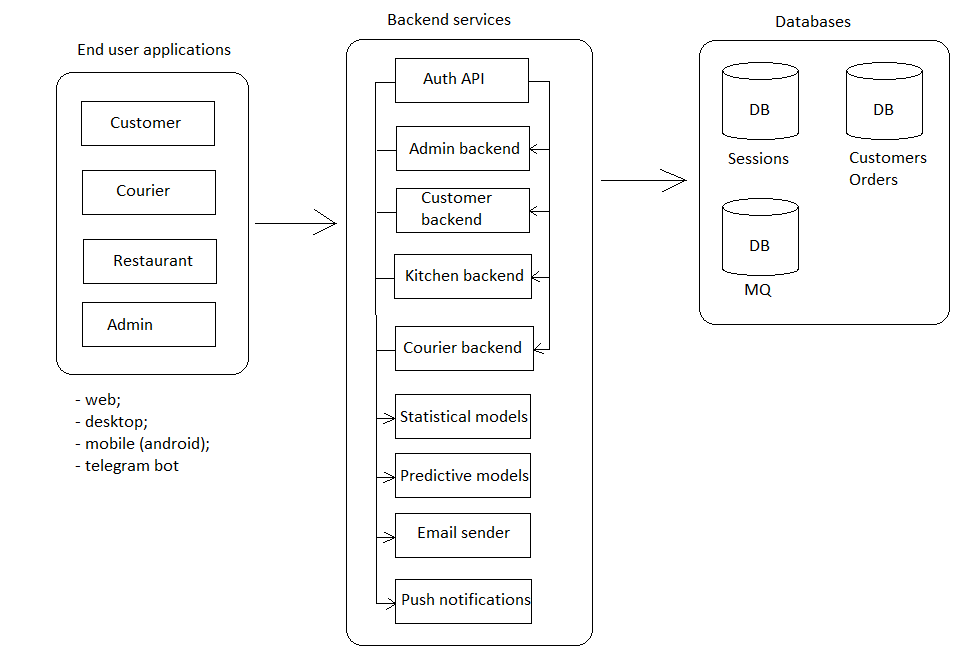
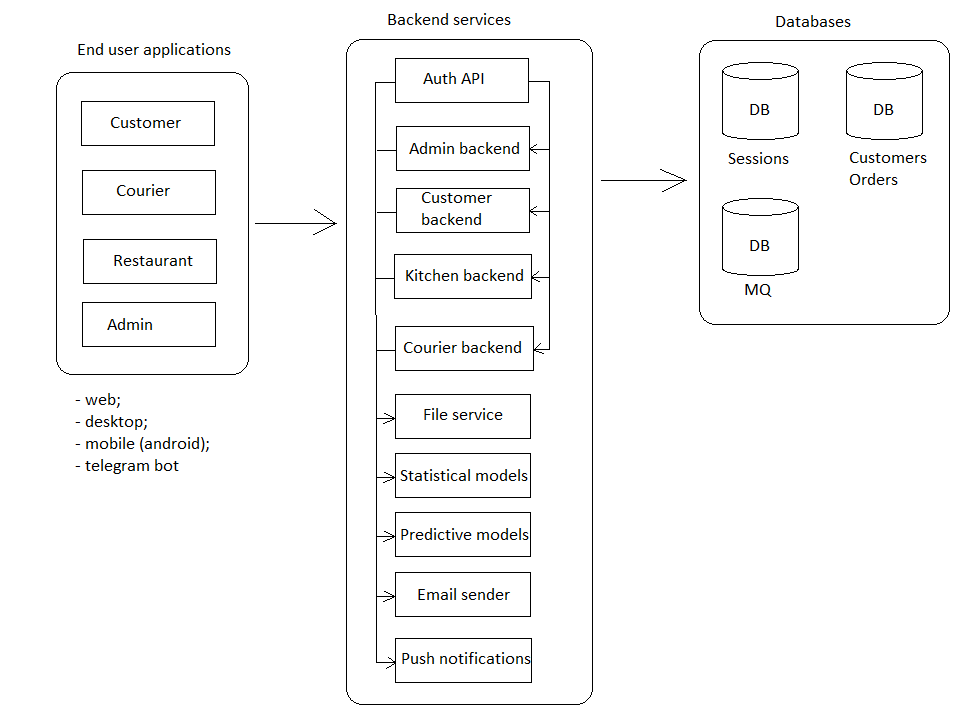
added docs

diff --git a/README.ru.md b/README.ru.md
@@ -5,21 +5,21 @@
 Сервис доставки еды
 
 Описание системы: 
-- Сервис доставки еды 
-- Виды клиентских приложений по типу конечного пользователя: клиентское, ресторан, курьер, админ
+- Высоконагруженная система: каждый элемент системы должен быть способен выдержать нагрузку до 5 тыс. запросов в секунду на запись и чтение
+- Виды клиентских приложений по типу конечного пользователя: для потребителей, ресторан, курьер, админ
 - Виды клиентских приложений по типу развертывания: вэб, десктоп, мобильное (Android), бот в телеграм 
-- Бэкенд сервисы: authentication API, customer, kitchen, courier, email sender, push notifications 
+- Бэкенд сервисы: [authentication API](docs/authapi.ru.md), [customer backend](docs/customerbackend.ru.md), kitchen backend, courier backend, file service, statistical model, predictive model, email sender, push notifications 
 - Внешние сервисы: Firebase, email delivery service, payment gateway 
-- Высоконагруженная система: каждый элемент системы должен быть способен выдержать нагрузку до 5 тыс. запросов в секунду на запись и чтение 
 - Виды оплаты: наличная при получении, через валидатор при получении, через приложение банка по QR-коду, в приложении с помощью CVC
 - Загрузка файлов на сервер (изображения, видео, Word, Excel, PDF, XML, JSON)
 - Загрузка файлов с сервера (изображения, Word, Excel, PDF, XML, JSON)
 - Формирование QR-кода для оплаты
+- Отправка уведомлений об акциях на почту и/или на телеграм
 - Отображение информации по заказам в виде списков: список всех заказов, информация по конкретному заказу (фактическое время оформления, готовки и доставки; ориентировочное время готовки и доставки, общая сумма заказа, стоимость позиций заказа, место доставки; статус)
 - Статистика по многим заказам в виде дашбордов (по времени: день, неделя, месяц, год, всё время; по типу графиков: Line chart, Bar chart, Histogram, Scatter plot и т.д.; метрики: общая сумма заказа, стоимость позиции, количество заказов, количество позиций, время оформления заказов, место доставки)
 - Метрики для внутреннего пользования: фактическое время оформления заказов, готовки и доставки; общая сумма заказа, стоимость позиций заказа, количество заказов, количество позиций, время оформления заказов, место доставки, место регистрации пользователя 
 - Предиктивные модели по всем метрикам: для группы пользователей (фильтр: город, страна, возраст, пол, совпадения в ФИО пользователей, место доставки, место регистрации; отображение: список пользователей, краткая информация о пользователе)
-- Отслеживание местоположения курьера 
+- Отслеживание местоположения курьера
 
 Технические требования к системе: 
 - Распределенная система храненения записей в БД: сделать анализ по БД, которая оптимальна для записи и для чтения 
@@ -29,5 +29,7 @@
 - Использование gRPC, RabbitMQ, ElasticSearch, WebAPI и worker
 - У RabbitMQ может быть несколько "подписчиков"
 - Асинхронность и параллельность (например, при формировании изображений)
+
+Общая модель системы: 
 
 ![system_overall](docs/img/system_overall.png)

diff --git a/docs/customerbackend.ru.md b/docs/customerbackend.ru.md
@@ -1,0 +1,27 @@
+# customer backend 
+
+Доступно на других языках: [English/Английский](customerbackend.md), [Russian/Русский](customerbackend.ru.md). 
+
+Бэкенд сервис приложения для потребителей 
+
+Общая модель системы: 
+
+![system_overall](img/system_overall.png)
+
+Описание приложения для потребителей: 
+- Часть высоконагруженной системы: каждый элемент системы должен быть способен выдержать нагрузку до 5 тыс. запросов в секунду на запись и чтение
+- Интегрируется напрямую с [authentication API](authapi.ru.md), [customer backend](customerbackend.ru.md), file service, statistical model, predictive model, email sender, push notifications
+- Виды оплаты: наличная при получении, через валидатор при получении, через приложение банка по QR-коду, в приложении с помощью CVC
+- Загрузка файлов на сервер (изображения, видео, Word, Excel, PDF, XML, JSON)
+- Загрузка файлов с сервера (изображения, Word, Excel, PDF, XML, JSON)
+- Формирование QR-кода для оплаты
+- Отправка уведомлений об акциях на почту и/или на телеграм
+- Отображение информации по заказам в виде списков: список всех заказов, информация по конкретному заказу (фактическое время оформления, готовки и доставки; ориентировочное время готовки и доставки, общая сумма заказа, стоимость позиций заказа, место доставки; статус)
+- Статистика по многим заказам в виде дашбордов (по времени: день, неделя, месяц, год, всё время; по типу графиков: Line chart, Bar chart, Histogram, Scatter plot и т.д.; метрики: общая сумма заказа, стоимость позиции, количество заказов, количество позиций, время оформления заказов, место доставки)
+- Использование предиктивных моделей по метрикам: ориентировочное время готовки и доставки
+- Отслеживание местоположения курьера на карте
+
+Описание бэкенда приложения для потребителей: 
+- Виды оплаты: наличная при получении, через валидатор при получении, через приложение банка по QR-коду, в приложении с помощью CVC
+- Проверяет сессионный токен, полученный после вызова [authentication API](authapi.ru.md)
+- Выгрузка информации по заказам в виде списков: список всех заказов, информация по конкретному заказу (фактическое время оформления, готовки и доставки; ориентировочное время готовки и доставки, общая сумма заказа, стоимость позиций заказа, место доставки; статус)

diff --git a/docs/authapi.ru.md b/docs/authapi.ru.md
@@ -1,0 +1,14 @@
+# authapi
+
+Доступно на других языках: [English/Английский](authapi.md), [Russian/Русский](authapi.ru.md). 
+
+API для аутентификации 
+
+Общая модель системы: 
+
+![system_overall](img/system_overall.png)
+
+Описание API для аутентификации: 
+- Часть высоконагруженной системы: каждый элемент системы должен быть способен выдержать нагрузку до 5 тыс. запросов в секунду на запись и чтение
+- Без использования данного модуля невозможно произвести вызов ни одного бэкенд сервиса (однако он напрямую не взаимодействует ни с одним из них)
+- Записывает сессионные токены в БД, а также возвращает сессионные токены в качестве ответа на сетевой запрос клиентского приложения

diff --git a/docs/fileservice.ru.md b/docs/fileservice.ru.md
@@ -1,0 +1,14 @@
+# fileservice
+
+Доступно на других языках: [English/Английский](fileservice.md), [Russian/Русский](fileservice.ru.md). 
+
+Сервис для работы с файлами и генерации их 
+
+Общая модель системы: 
+
+![system_overall](img/system_overall.png)
+
+Описание сервиса: 
+- Загрузка файлов на сервер (изображения, видео, Word, Excel, PDF, XML, JSON)
+- Загрузка файлов с сервера (изображения, Word, Excel, PDF, XML, JSON)
+- Формирование QR-кода для оплаты

diff --git a/docs/emailsender.ru.md b/docs/emailsender.ru.md
@@ -1,0 +1,12 @@
+# email sender
+
+Доступно на других языках: [English/Английский](emailsender.md), [Russian/Русский](emailsender.ru.md). 
+
+Отправка email сообщений 
+
+Общая модель системы: 
+
+![system_overall](img/system_overall.png)
+
+Описание сервиса для отправки email сообщений:
+- Отправка уведомлений об акциях на почту и/или на телеграм

diff --git a/docs/pushnotifications.ru.md b/docs/pushnotifications.ru.md
@@ -1,0 +1,9 @@
+# push notifications
+
+Доступно на других языках: [English/Английский](pushnotifications.md), [Russian/Русский](pushnotifications.ru.md). 
+
+Пуш уведмоления 
+
+Общая модель системы: 
+
+![system_overall](img/system_overall.png)

diff --git a/docs/customerbackend.md b/docs/customerbackend.md
@@ -1,0 +1,9 @@
+# customer backend 
+
+Read this in other languages: [English](customerbackend.md), [Russian/Русский](customerbackend.ru.md). 
+
+Backend of the customer application 
+
+Overall description of the system: 
+
+![system_overall](img/system_overall.png)

diff --git a/docs/pushnotifications.md b/docs/pushnotifications.md
@@ -1,0 +1,9 @@
+# push notifications
+
+Read this in other languages: [English](pushnotifications.md), [Russian/Русский](pushnotifications.ru.md). 
+
+Push notifications 
+
+Overall description of the system: 
+
+![system_overall](img/system_overall.png)

diff --git a/docs/fileservice.md b/docs/fileservice.md
@@ -1,0 +1,9 @@
+# fileservice
+
+Read this in other languages: [English](fileservice.md), [Russian/Русский](fileservice.ru.md). 
+
+Service for generating files 
+
+Overall description of the system: 
+
+![system_overall](img/system_overall.png)

diff --git a/docs/emailsender.md b/docs/emailsender.md
@@ -1,0 +1,9 @@
+# email sender
+
+Read this in other languages: [English](emailsender.md), [Russian/Русский](emailsender.ru.md). 
+
+Email sender 
+
+Overall description of the system: 
+
+![system_overall](img/system_overall.png)

diff --git a/docs/authapi.md b/docs/authapi.md
@@ -1,0 +1,9 @@
+# authapi
+
+Read this in other languages: [English](authapi.md), [Russian/Русский](authapi.ru.md). 
+
+Authentication API 
+
+Overall description of the system: 
+
+![system_overall](img/system_overall.png)

diff --git a/README.md b/README.md
@@ -1,3 +1,7 @@
 # delivery-service-csharp 
 
 Read this in other languages: [English](README.md), [Russian/Русский](README.ru.md). 
+
+Overall description of the system: 
+
+![system_overall](docs/img/system_overall.png)
